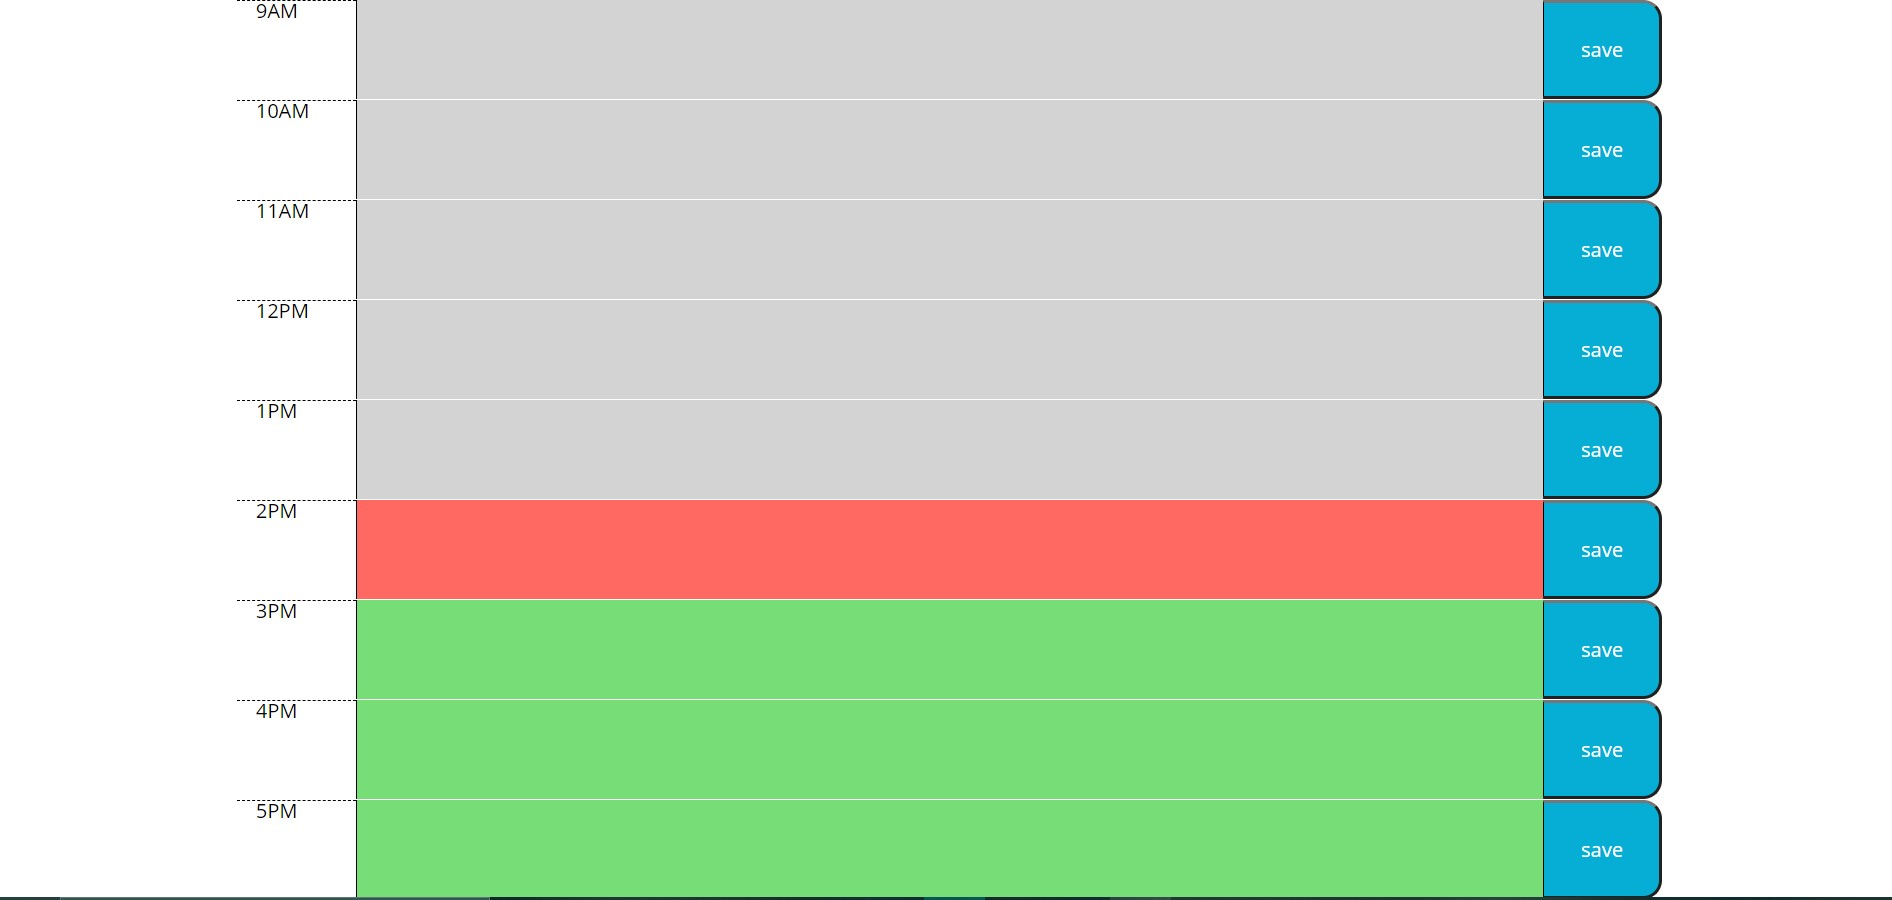
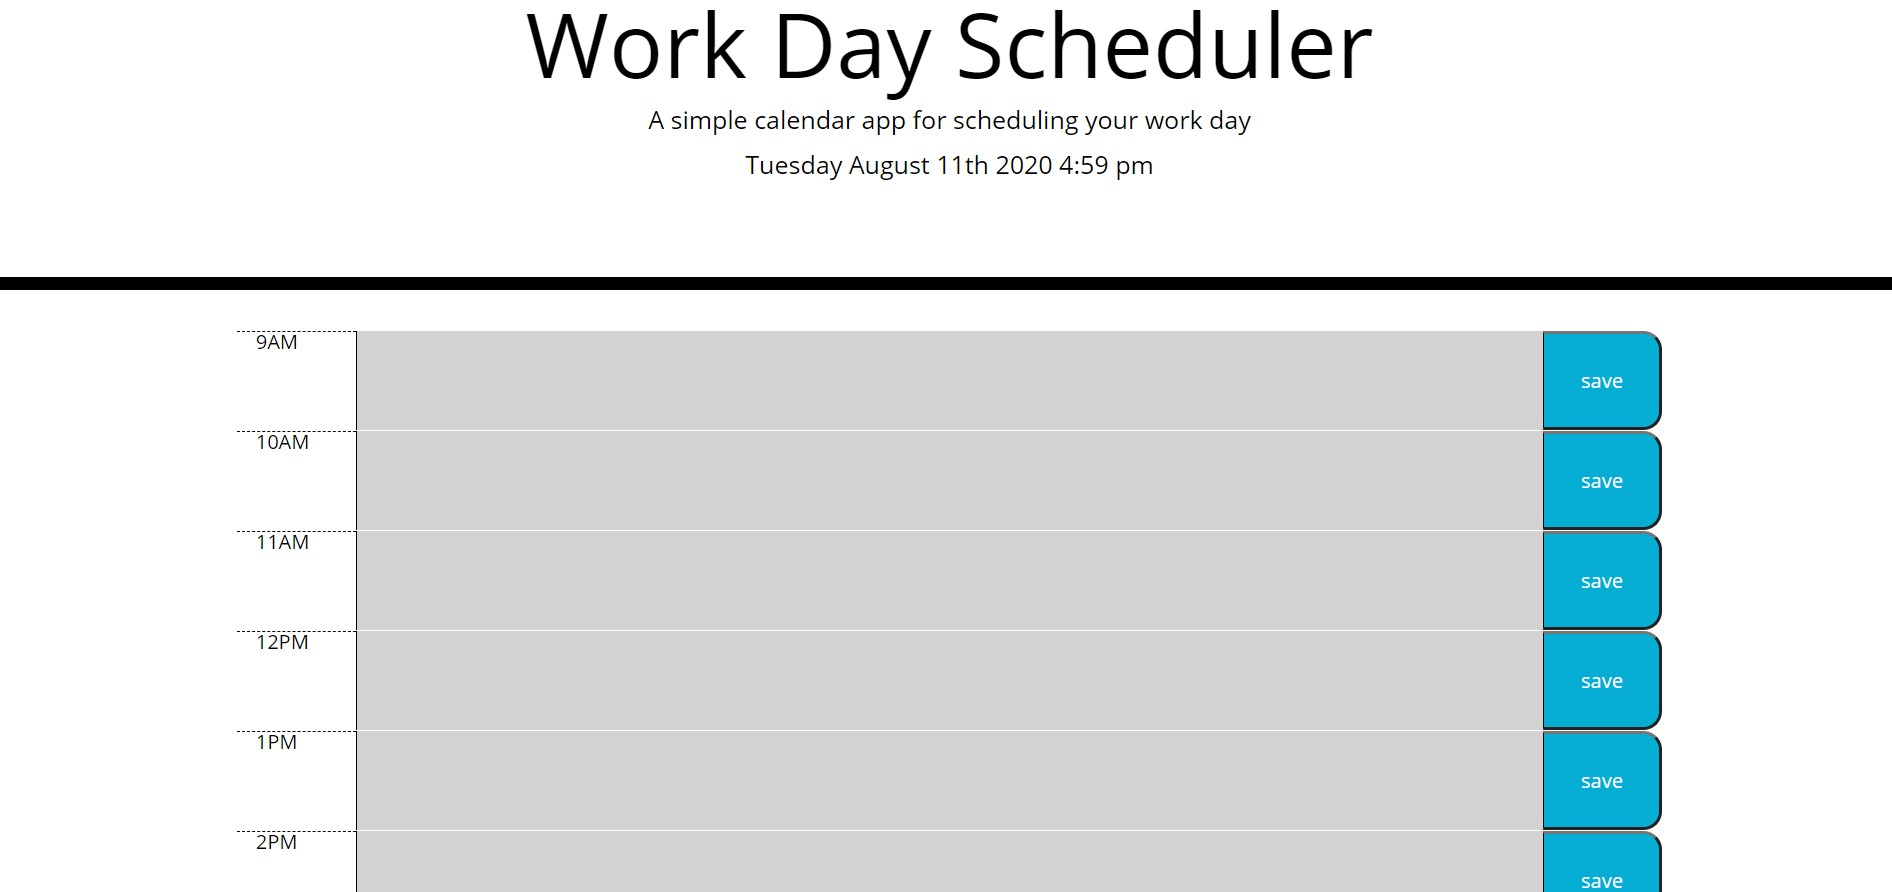
read me

diff --git a/assets/script.js b/assets/script.js
@@ -25,6 +25,7 @@ $(".row").each(function () {
 //Saving the value of the text area in local storage 
 $("button").on("click", function(){
     var txtValue = $(this)[0].previousElementSibling.children[0].value
+    console.log(this)
     var id = $(this)[0].previousElementSibling.id
     localStorage.setItem(id, txtValue)
 })

diff --git a/README.md b/README.md
@@ -1,5 +1,7 @@
 # Day-Planner
 
+<img src = "assets/BrowserView.jpg" alt = "browser view">
+
 The reason for making this day planner was to create a website that would save and store your information for the day in the provided text areas. while doing this excersise I was able to flex the new knowledge that I have on the DOM as well as creating loops. 
 
 # how it works 
@@ -10,9 +12,20 @@ The first thing that I accomplished was establishing the html, assigning it rows
 
 I gave each text area an id corilating to the time of the row it was on in military time. I also connected the nessicarry divs to the style sheet by assigning them specific classes that appeared on the css file.
 
-next in the javascript I created a variable for the current time (ct) and made it equal to moment().format("HH") which would allow the value to be changed as the hour did throughout the day. 
+Next in the javascript I created a variable for the current time (ct) and made it equal to moment().format("HH") which would allow the value to be changed as the hour did throughout the day. 
+
+I also gave id currentDay the text value of (moment().format("dddd MMMM Do YYYY h:mm a")); which dynamically changed the date and time bellow the title.
 
 After this I created an on load function that would simultaniously set the color for past, preasent, and future while getting the 
 values of past entries from local storage and setting them as the text area value.
 
 <img src = "assets/settingVar.jpg" alt= "javascript setting var and creating for each loop">
+
+I accomplished this as you can see above by enlisting a for each loop which iterated through the children of the different rows and checked to see if their id's were equal to the variable ct (time in military time). Which you can see on the first picture, I created an id for each text area to be equal a military time unique to its allotted column. If the id was found to be equal to ct then it was given the class ".preasent" which via the CSS would turn the background color red. Following suit if the id value was less than the ct value than the text box was given the class past, else, the text area was given the class of future.
+
+
+Lastly I created an event listener for the save buttons that would save the data entered into the text box to local storage.
+
+<img src = "assets/localStorage.jpg" alt="local storage for each loop">
+
+
